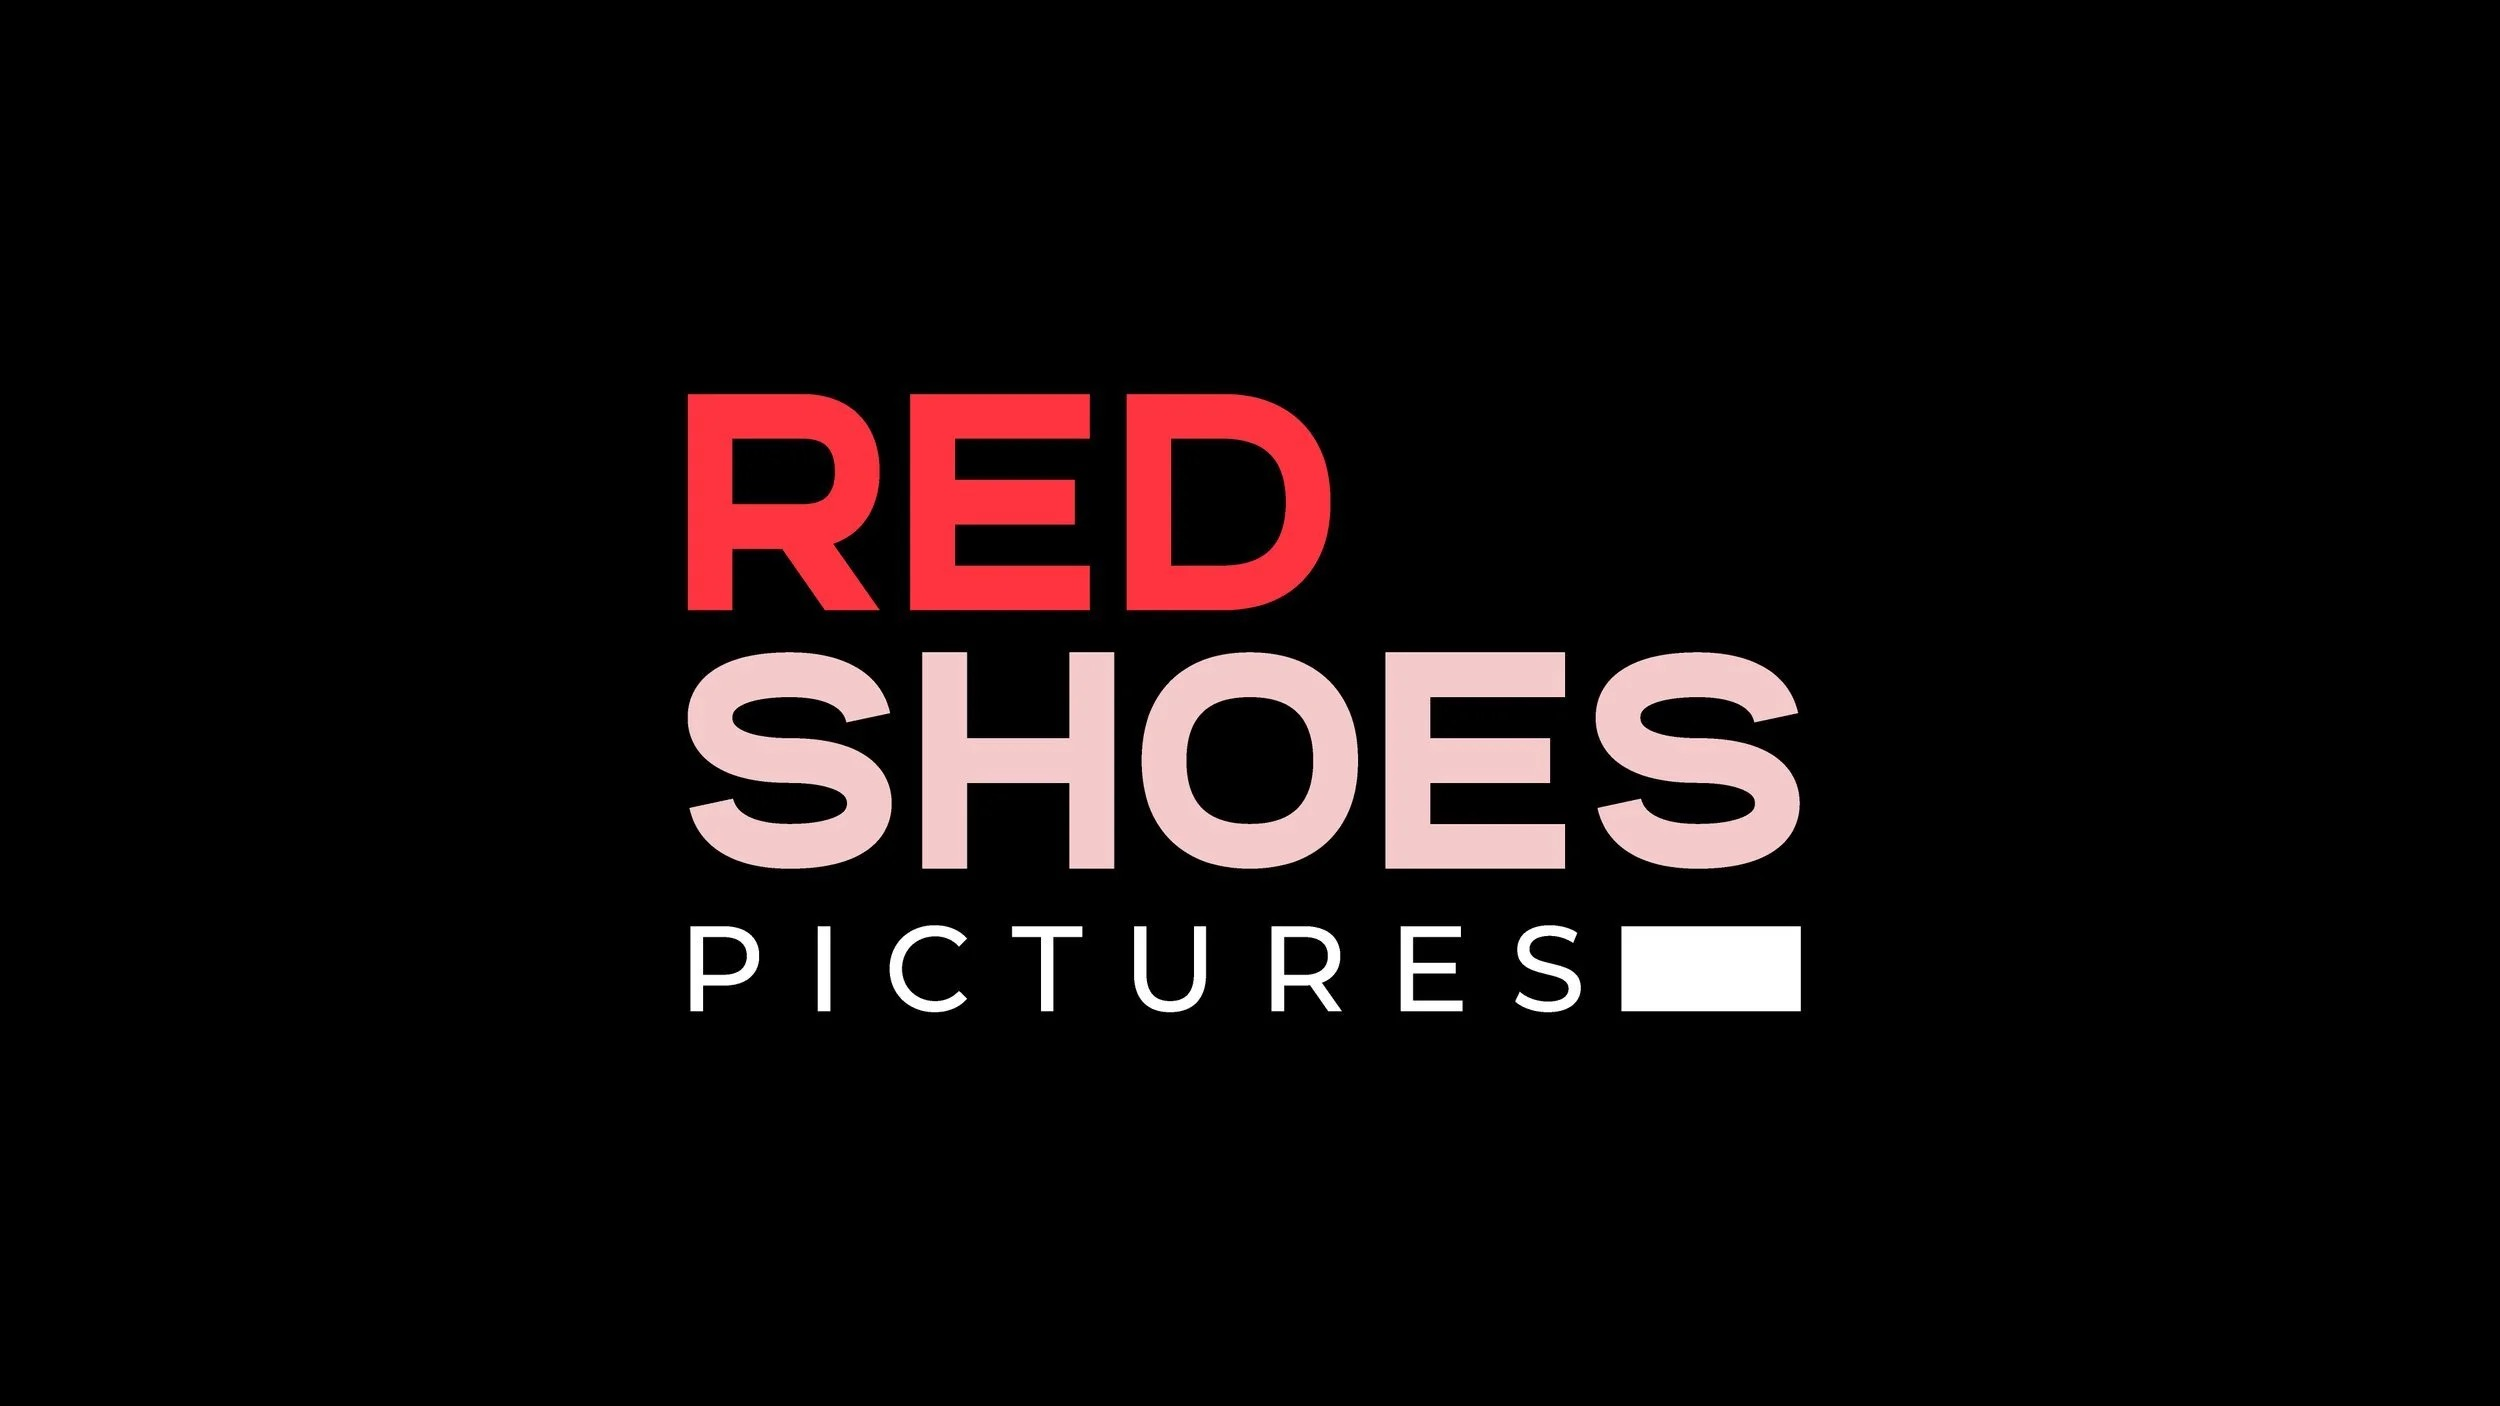
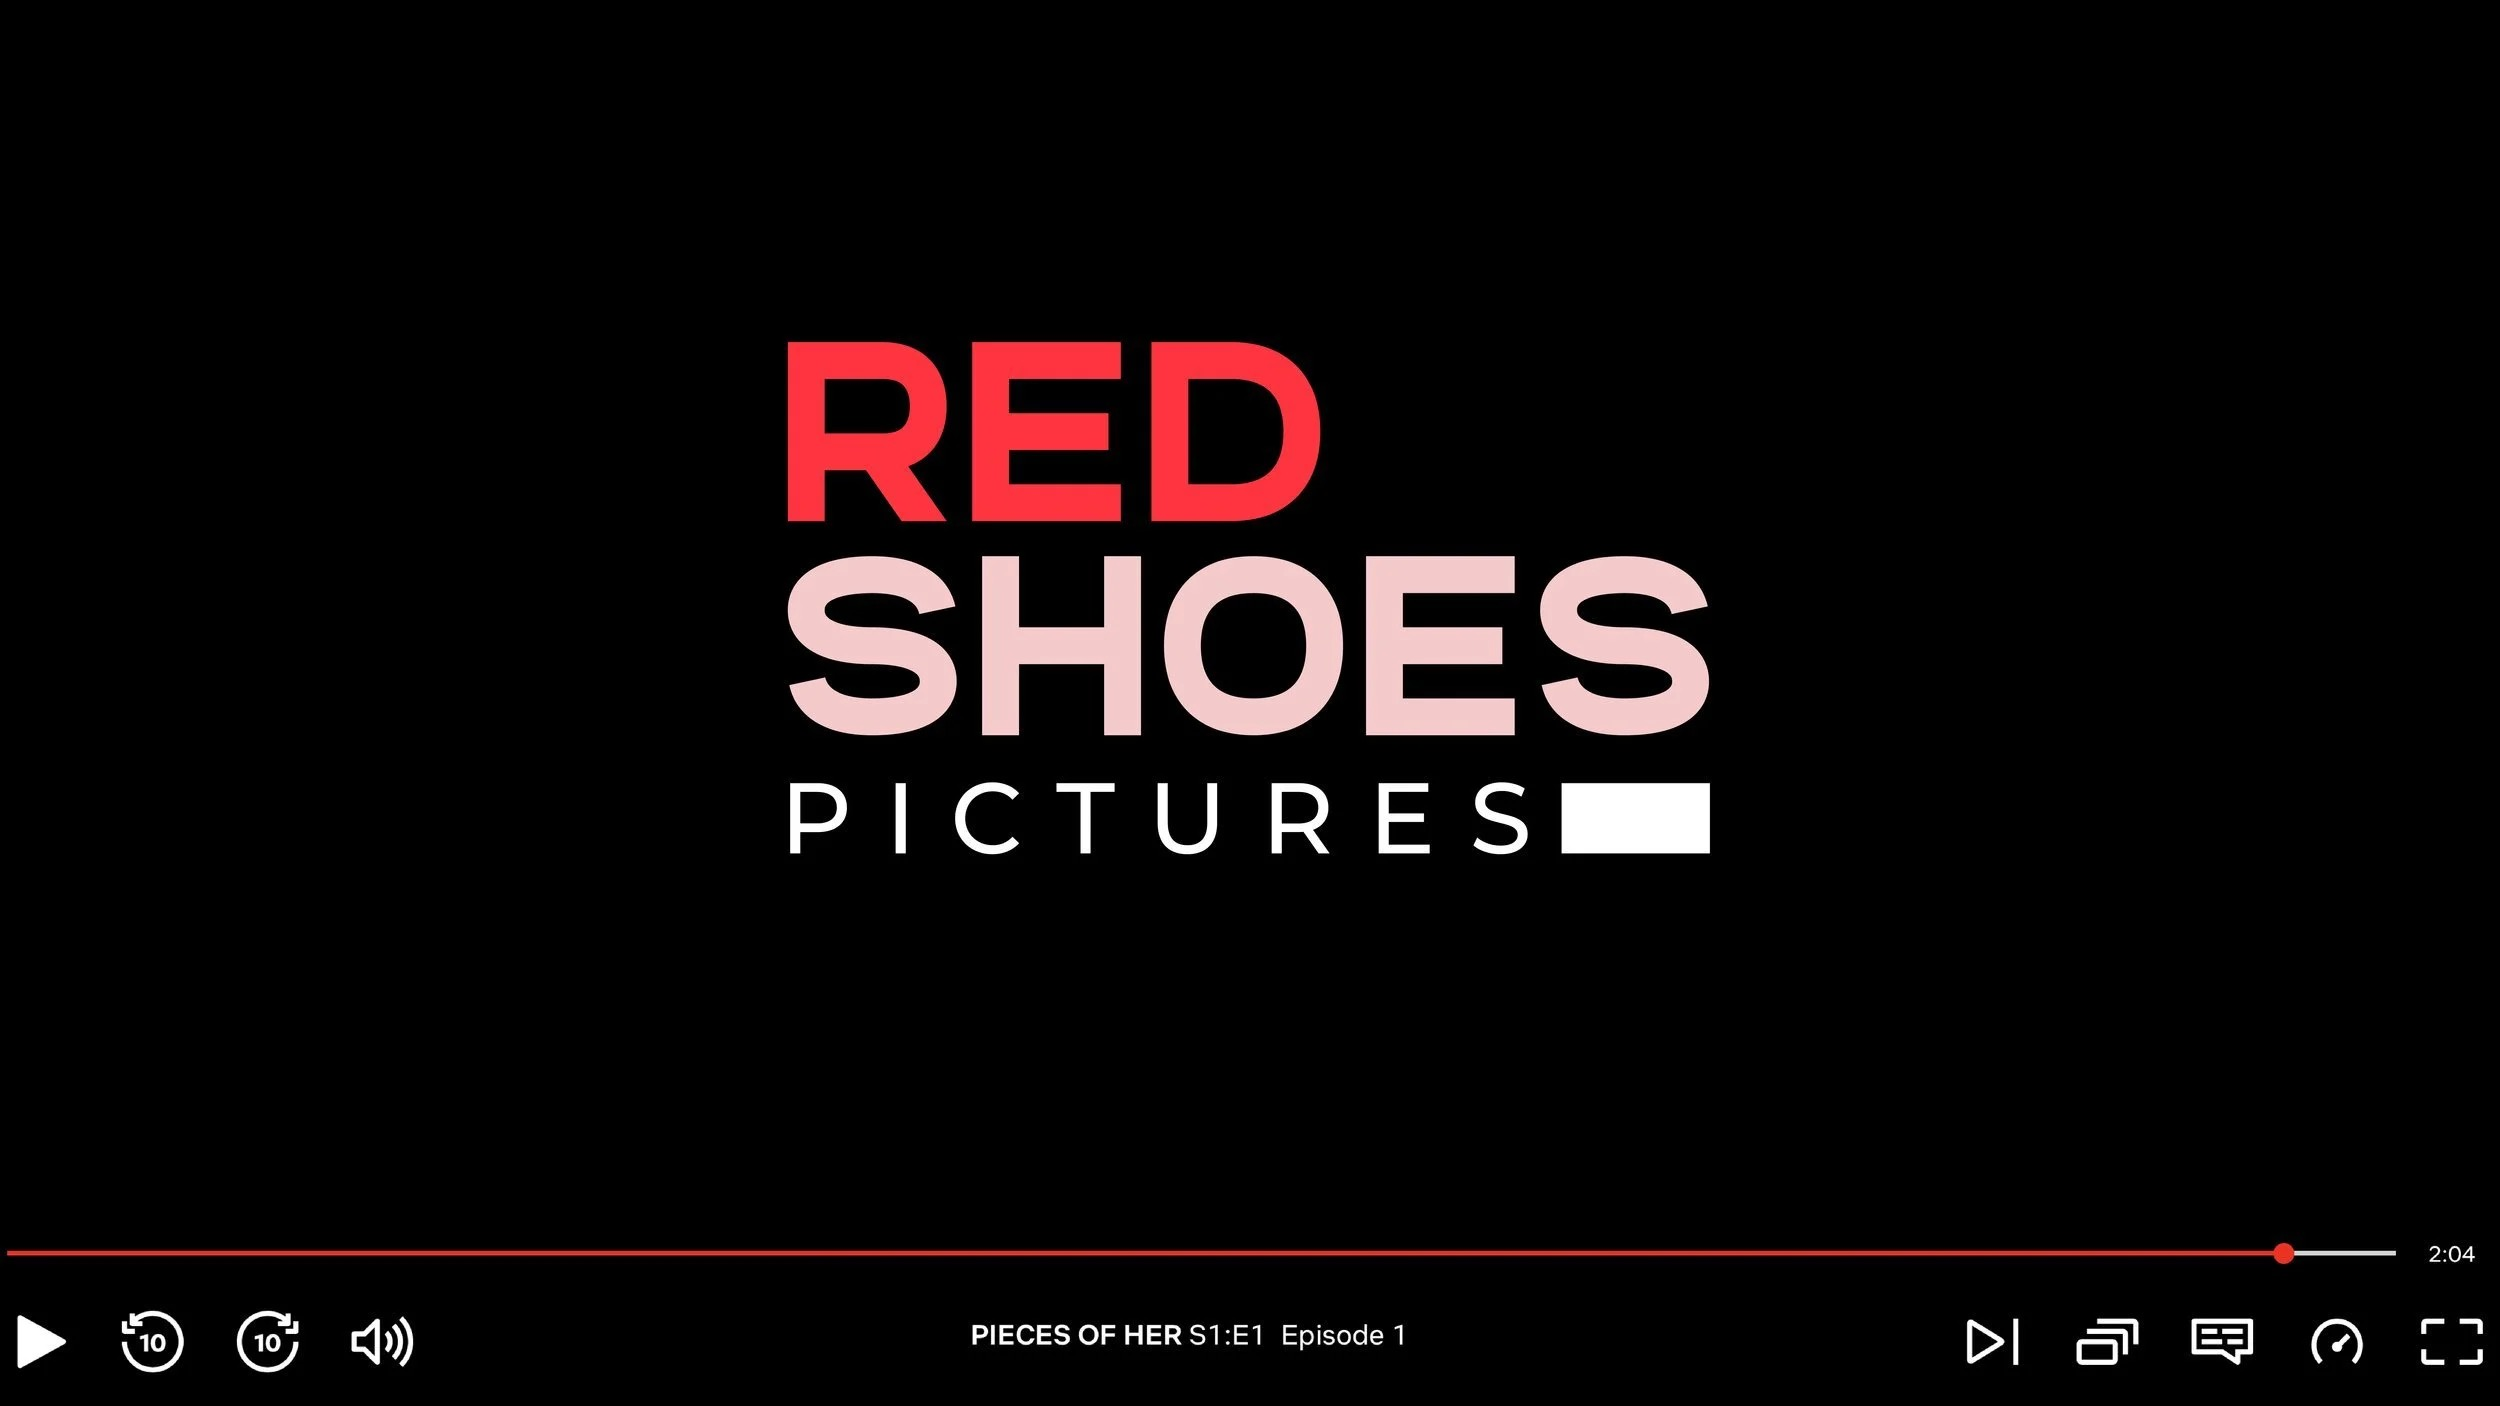
Use Netflix player frame and Joe’s sign for project photos
Set Red Shoes work/stack photos to the end-credits frame with the player progress bar, and Joe’s Stone Crab to the building sign shot.

Changed region(s): [[0.2496, 0.2447, 0.7176, 0.734], [0.0, 0.8869, 0.9672, 0.9787], [0.9672, 0.9175, 0.9984, 0.9787]]

diff --git a/index.html b/index.html
@@ -703,10 +703,10 @@
     <div class="stack" id="stack">
       <div class="stack-card" data-cat="ph-brand" data-slug="televisionacademy"><img src="images/televisionacademy/hero-stack-lcp.jpg" alt="John Legend and Chrissy Teigen at the Emmy Awards" style="position:absolute;inset:0;width:100%;height:100%;object-fit:cover;object-position:68% 35%;" loading="eager" fetchpriority="high" decoding="sync" width="1800" height="1011"></div>
       <div class="stack-card" data-cat="ph-brand" data-slug="fount"><img data-src="images/fount/hero-stack.jpg" alt="Fount" style="position:absolute;inset:0;width:100%;height:100%;object-fit:cover;" loading="lazy" width="2500" height="1401"></div>
-      <div class="stack-card" data-cat="ph-hosp" data-slug="joes-stone-crab"><img data-src="images/joes-stone-crab/hero-stack.jpg" alt="Joe's Stone Crab" style="position:absolute;inset:0;width:100%;height:100%;object-fit:cover;" loading="lazy" width="1500" height="1143"></div>
+      <div class="stack-card" data-cat="ph-hosp" data-slug="joes-stone-crab"><img data-src="images/joes-stone-crab/hero-stack.jpg?v=2" alt="Joe's Stone Crab" style="position:absolute;inset:0;width:100%;height:100%;object-fit:cover;" loading="lazy" width="1500" height="1143"></div>
       <div class="stack-card" data-cat="ph-cpg" data-slug="lemon-perfect"><img data-src="images/lemon-perfect/hero-stack.jpg" alt="Lemon Perfect" style="position:absolute;inset:0;width:100%;height:100%;object-fit:cover;" loading="lazy" width="1920" height="1080"></div>
       <div class="stack-card" data-cat="ph-cpg" data-slug="dream-clean"><img data-src="images/dream-clean/hero-stack.jpg" alt="Dream Clean full scent line packaging" style="position:absolute;inset:0;width:100%;height:100%;object-fit:cover;" loading="lazy" width="1920" height="1080"></div>
-      <div class="stack-card" data-cat="ph-brand" data-slug="red-shoes-pictures"><img data-src="images/red-shoes-pictures/hero-stack.jpg" alt="Red Shoes Pictures" style="position:absolute;inset:0;width:100%;height:100%;object-fit:cover;" loading="lazy" width="2500" height="1406"></div>
+      <div class="stack-card" data-cat="ph-brand" data-slug="red-shoes-pictures"><img data-src="images/red-shoes-pictures/hero-stack.jpg?v=2" alt="Red Shoes Pictures" style="position:absolute;inset:0;width:100%;height:100%;object-fit:cover;" loading="lazy" width="2500" height="1406"></div>
       <div class="stack-card" data-cat="ph-brand" data-slug="inflection"><img data-src="images/inflection/thumbnail.jpg?v=2" alt="Inflection" style="position:absolute;inset:0;width:100%;height:100%;object-fit:cover;" loading="lazy" width="1024" height="497"></div>
     </div>
   </div>
@@ -765,12 +765,12 @@
         </a>
         <a href="/red-shoes-pictures" class="work-item reveal">
           <span class="work-num">07</span>
-          <div class="work-media" data-slug="red-shoes-pictures"><img src="images/red-shoes-pictures/thumbnail.jpg" alt="Red Shoes Pictures" style="position:absolute;inset:0;width:100%;height:100%;object-fit:cover;" loading="lazy" width="2500" height="1406" decoding="async"></div>
+          <div class="work-media" data-slug="red-shoes-pictures"><img src="images/red-shoes-pictures/thumbnail.jpg?v=2" alt="Red Shoes Pictures" style="position:absolute;inset:0;width:100%;height:100%;object-fit:cover;" loading="lazy" width="2500" height="1406" decoding="async"></div>
           <div class="work-cap"><span class="name">Red Shoes Pictures</span><span class="cat">Client Work</span></div>
         </a>
         <a href="/joes-stone-crab" class="work-item reveal">
           <span class="work-num">08</span>
-          <div class="work-media" data-slug="joes-stone-crab"><img src="images/joes-stone-crab/thumbnail.jpg" alt="Joe's Stone Crab" style="position:absolute;inset:0;width:100%;height:100%;object-fit:cover;" loading="lazy" width="1500" height="1000" decoding="async"></div>
+          <div class="work-media" data-slug="joes-stone-crab"><img src="images/joes-stone-crab/thumbnail.jpg?v=2" alt="Joe's Stone Crab" style="position:absolute;inset:0;width:100%;height:100%;object-fit:cover;" loading="lazy" width="1500" height="1143" decoding="async"></div>
           <div class="work-cap"><span class="name">Joe's Stone Crab</span><span class="cat">Client Work</span></div>
         </a>
       </div>
